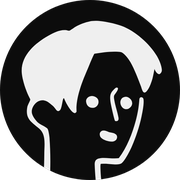
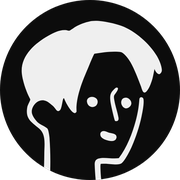
Face badge: thinner eye and mouth outlines so the features match the original drawing
Claude-Session: https://claude.ai/code/session_016BuzMakzLKpSeSq47ZVaDD

diff --git a/components/ui/AvatarIllust.tsx b/components/ui/AvatarIllust.tsx
@@ -105,12 +105,12 @@ export default function AvatarIllust({ className, onDizzy, compact = false }: { 
       <path d="M284.98,178.99c-1.41-.9-7.57-28.86-8.11-32.51-.93-6.25-1.89-13.28,1.58-18.85,1.14-1.83,6.92-8.49,8.9-8.5,7.6-.02-3.49,12.28-4.21,14.28-.85,2.38-.15,5.63.27,8.15,1.72,10.37,5.65,21.01,7.45,31.25.8,4.57-1.09,7.21-5.89,6.16Z" />
 
       {/* Mouth */}
-      <path fill={compact ? "currentColor" : "var(--accent)"} stroke={compact ? "currentColor" : "none"} strokeWidth={compact ? 7 : 0} strokeLinejoin="round" d="M261.61,200.46c2.67-2.84,8.66.86,11.85,1.77,3.43.98,13.01,1.11,11.21,6.84-2.16,6.86-19.13,1.12-22.66-3.01-1.18-1.38-1.66-4.25-.39-5.59Z" />
+      <path fill={compact ? "currentColor" : "var(--accent)"} stroke={compact ? "currentColor" : "none"} strokeWidth={compact ? 3 : 0} strokeLinejoin="round" d="M261.61,200.46c2.67-2.84,8.66.86,11.85,1.77,3.43.98,13.01,1.11,11.21,6.84-2.16,6.86-19.13,1.12-22.66-3.01-1.18-1.38-1.66-4.25-.39-5.59Z" />
 
       {/* Eyes — mouse tracking */}
 
       {/* Eyes — mouse tracking */}
-      <motion.g fill={compact ? "currentColor" : "var(--accent)"} stroke={compact ? "currentColor" : "none"} strokeWidth={compact ? 8 : 0} strokeLinejoin="round" style={{ x: eyeX, y: eyeY }} animate={{ opacity: dizzy ? 0 : 1 }} transition={{ duration: 0.15 }}>
+      <motion.g fill={compact ? "currentColor" : "var(--accent)"} stroke={compact ? "currentColor" : "none"} strokeWidth={compact ? 3.5 : 0} strokeLinejoin="round" style={{ x: eyeX, y: eyeY }} animate={{ opacity: dizzy ? 0 : 1 }} transition={{ duration: 0.15 }}>
         {/* Left eye */}
         <path d="M243.34,138.31c2.72-.14,6.98,1.69,7.65,4.62,2.21,9.57-12.38,12.58-13.95,1.38-.53-3.79,2.89-5.82,6.3-5.99Z" />
         {/* Right eye */}
